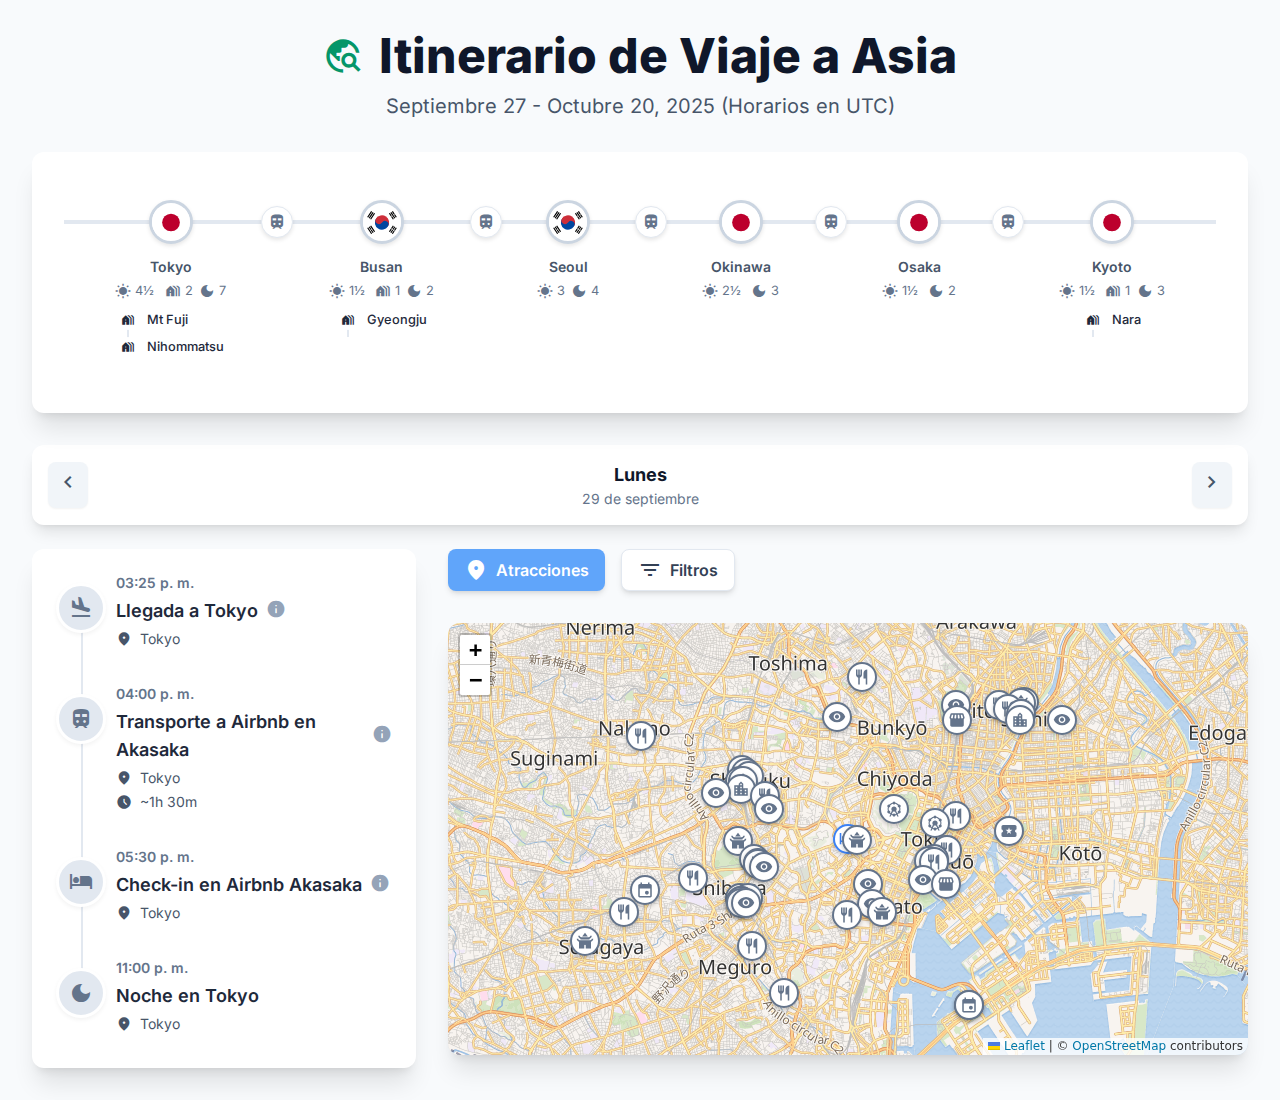
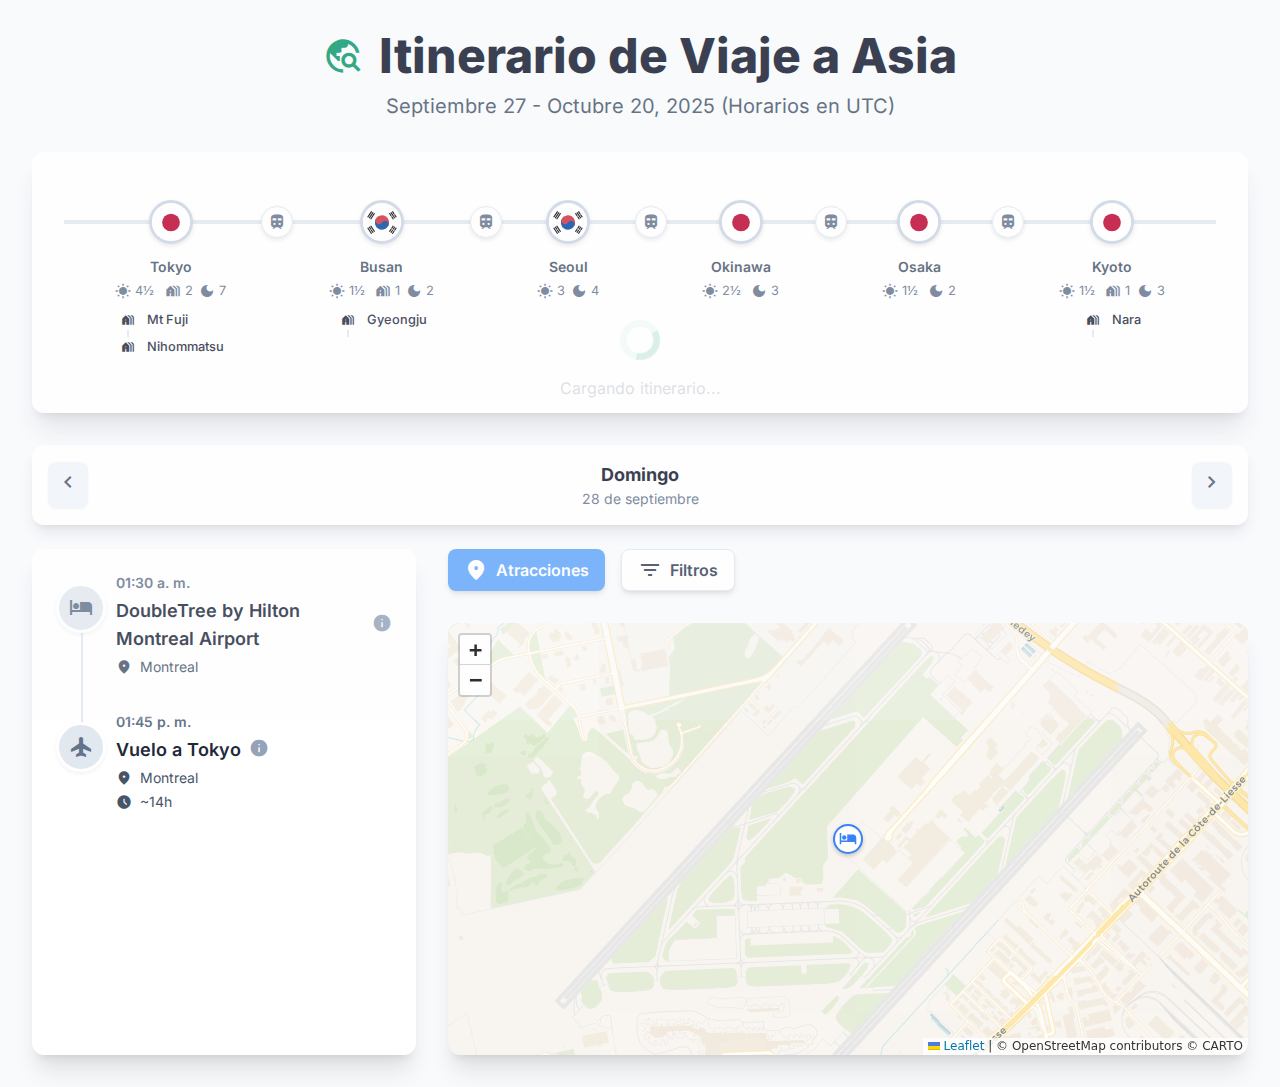
Revert "Feature: Spanish Map and Lodging-Focused Zoom"

diff --git a/index.html b/index.html
@@ -720,8 +720,8 @@
         // --- MAP INITIALIZATION ---
         function initializeMap() {
             map = L.map('map').setView([35.6895, 139.6917], 5);
-            L.tileLayer('https://maps.wikimedia.org/osm-intl/{z}/{x}/{y}{r}.png?lang=es', {
-                attribution: '&copy; <a href="https://www.openstreetmap.org/copyright">OpenStreetMap</a> contributors',
+            L.tileLayer('https://{s}.basemaps.cartocdn.com/rastertiles/voyager/{z}/{x}/{y}{r}.png', {
+                attribution: '&copy; OpenStreetMap contributors &copy; CARTO',
                 maxZoom: 19
             }).addTo(map);
             poiLayerGroup = L.layerGroup().addTo(map);
@@ -929,23 +929,13 @@
                 }
             }
 
-            const lodgingEvent = events.find(e => (e.type === 'lodging' || e.type === 'sleep') && isValidLatLng(e.coords));
+            const uniqueCoords = allCoords.filter((pt, idx, arr) => arr.findIndex(other => other[0] === pt[0] && other[1] === pt[1]) === idx);
 
-            map.invalidateSize();
-
-            if (lodgingEvent) {
-                // Zoom to 10km radius around lodging
-                const lodgingCoords = L.latLng(lodgingEvent.coords);
-                const bounds = lodgingCoords.toBounds(10000); // 10000 meters = 10km radius
-                map.fitBounds(bounds);
-            } else {
-                 const uniqueCoords = allCoords.filter((pt, idx, arr) => arr.findIndex(other => other[0] === pt[0] && other[1] === pt[1]) === idx);
-
-                if (uniqueCoords.length > 0) {
-                    const bounds = L.latLngBounds(uniqueCoords);
-                    if (bounds.isValid()) {
-                        map.fitBounds(bounds, { padding: [50, 50], maxZoom: 14 });
-                    }
+            if (uniqueCoords.length > 0) {
+                const bounds = L.latLngBounds(uniqueCoords);
+                map.invalidateSize();
+                if (bounds.isValid()) {
+                    map.fitBounds(bounds, { padding: [50, 50], maxZoom: 14 });
                 }
             }
         }
